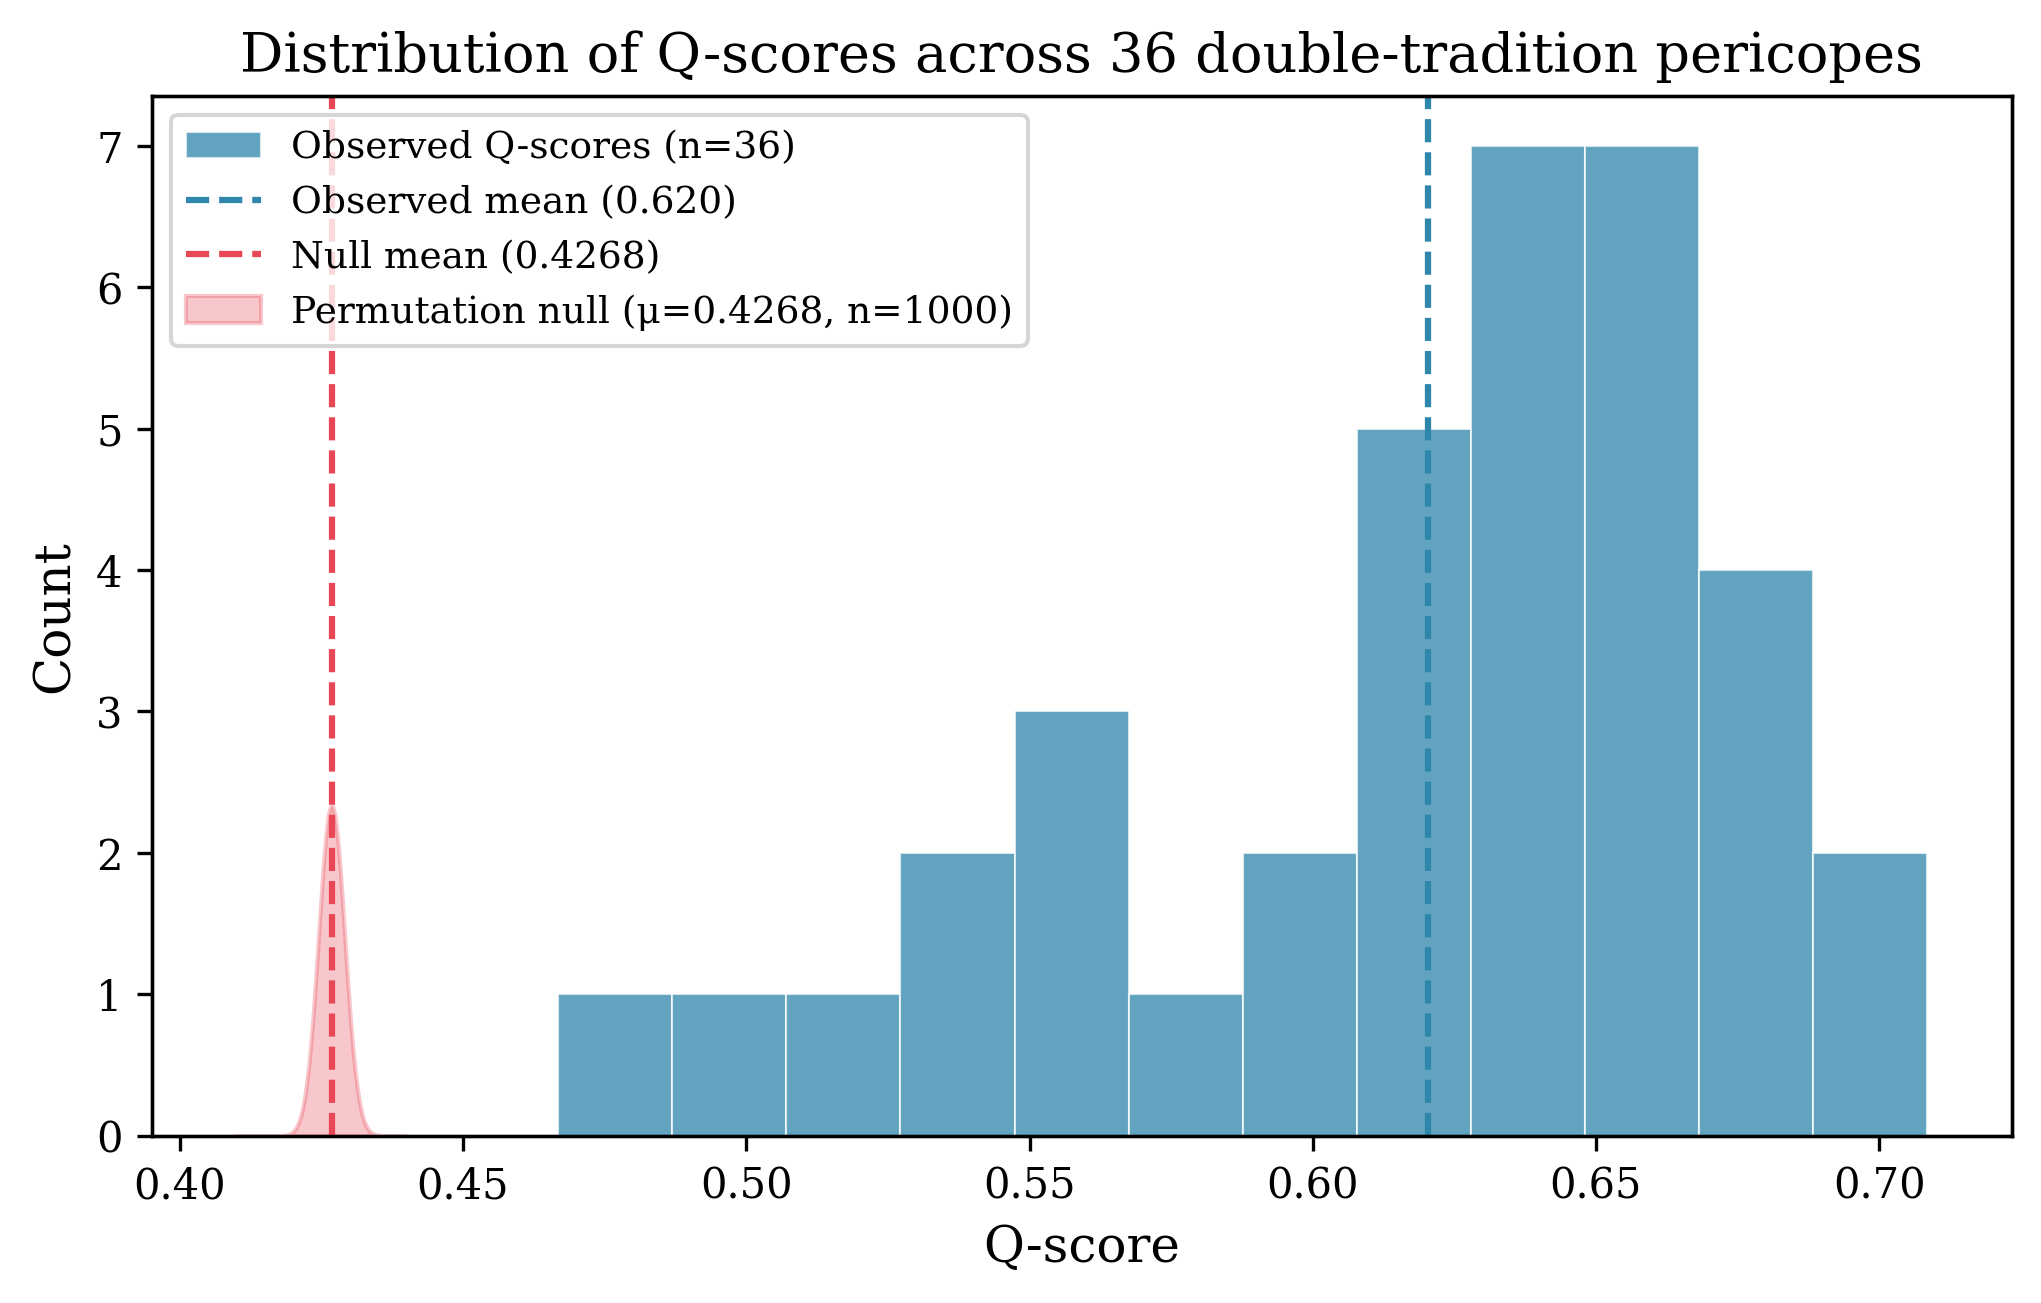
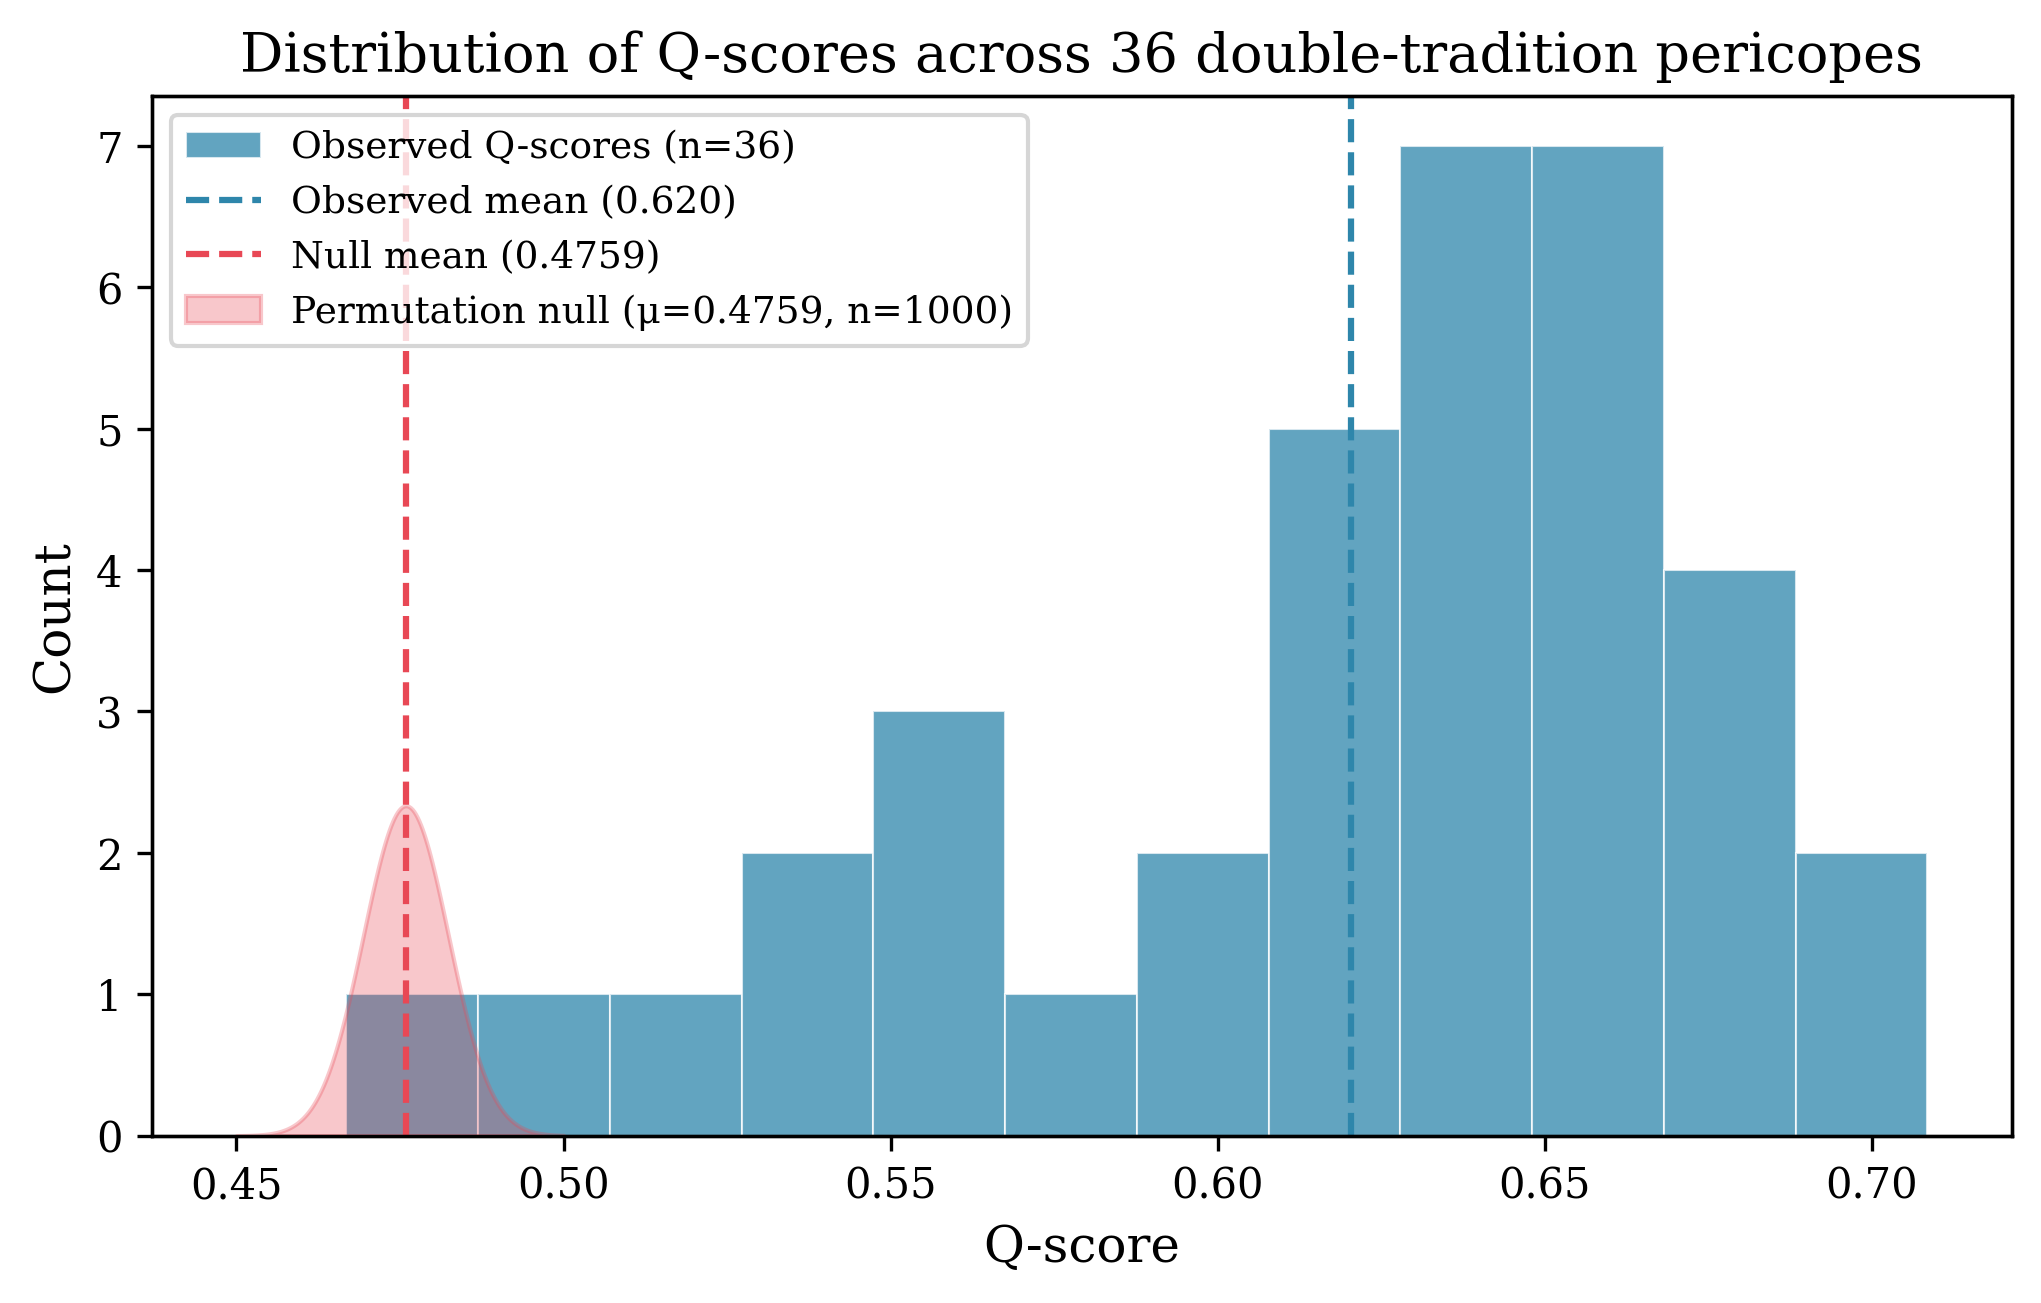
Update evaluation script, permutation nulls, and rename figure files

diff --git a/generate_evaluation_figures.py b/generate_evaluation_figures.py
@@ -214,10 +214,10 @@ q_scores = [d['q_score'] for d in data]
 # Histogram
 ax.hist(q_scores, bins=12, color='#2E86AB', alpha=0.75, edgecolor='white', linewidth=0.5, label='Observed Q-scores (n=36)')
 
-# Null distribution (mean=0.411, sd=0.003 from evaluation_summary.md)
-null_mean = 0.4268
-null_sd = 0.0023
-x_null = np.linspace(0.41, 0.44, 200)
+# Null distribution from corrected evaluation_summary.md
+null_mean = 0.4759
+null_sd = 0.0065
+x_null = np.linspace(0.45, 0.50, 200)
 null_pdf = (1 / (null_sd * np.sqrt(2 * np.pi))) * np.exp(-0.5 * ((x_null - null_mean) / null_sd)**2)
 # Scale to histogram height
 null_pdf_scaled = null_pdf * (len(q_scores) * (q_scores[0] - q_scores[-1]) / 12) * 0.3
@@ -273,9 +273,9 @@ ax.plot(xline, np.polyval(z, xline), '--', color='#E84855', alpha=0.6, linewidth
 ax.set_xlabel('Mean pericope length (verses)')
 ax.set_ylabel('Q-score')
 ax.set_title(f'Q-score vs. pericope length (r = {r:.3f}, p = {p:.3f}; ρ = {sr:.3f})')
-plt.savefig(os.path.join(OUT_DIR, 'fig2_qscore_vs_length.png'))
+plt.savefig(os.path.join(OUT_DIR, 'fig4_qscore_vs_length.png'))
 plt.close()
-print(f"Saved fig2_qscore_vs_length.png | Pearson r={r:.3f}, p={p:.4f} | Spearman rho={sr:.3f}, p={sp:.4f}")
+print(f"Saved fig4_qscore_vs_length.png | Pearson r={r:.3f}, p={p:.4f} | Spearman rho={sr:.3f}, p={sp:.4f}")
 
 # ---------- FIGURE 3: Residual symmetry comparison ----------
 fig, ax = plt.subplots(figsize=(7, 5))
@@ -312,9 +312,9 @@ ax.set_ylabel('Residual cosine similarity')
 ax.set_title('Residual symmetry: top-5 double-tradition pericopes\nvs. triple-tradition baseline')
 ax.set_ylim(0, 1.1)
 ax.legend(loc='lower right', fontsize=9)
-plt.savefig(os.path.join(OUT_DIR, 'fig3_residual_symmetry.png'))
+plt.savefig(os.path.join(OUT_DIR, 'fig2_residual_symmetry.png'))
 plt.close()
-print("Saved fig3_residual_symmetry.png")
+print("Saved fig2_residual_symmetry.png")
 
 # ---------- FIGURE 4: Q-score by Kloppenborg stratum ----------
 fig, ax = plt.subplots(figsize=(7, 5))
@@ -366,9 +366,9 @@ if q1_scores and q2_scores:
     print(f"Mann-Whitney U: stat={mwu_stat:.1f}, p={mwu_p:.4f}")
     print(f"Kruskal-Wallis: stat={kw_stat:.3f}, p={kw_p:.4f}")
 
-plt.savefig(os.path.join(OUT_DIR, 'fig4_qscore_by_stratum.png'))
+plt.savefig(os.path.join(OUT_DIR, 'fig6_qscore_by_stratum.png'))
 plt.close()
-print("Saved fig4_qscore_by_stratum.png")
+print("Saved fig6_qscore_by_stratum.png")
 
 # ---------- FIGURE 5: Full ranked pericope plot ----------
 fig, ax = plt.subplots(figsize=(10, 7))
@@ -400,9 +400,9 @@ legend_elements = [
 ]
 ax.legend(handles=legend_elements, loc='lower right', fontsize=8)
 
-plt.savefig(os.path.join(OUT_DIR, 'fig5_full_ranking.png'))
+plt.savefig(os.path.join(OUT_DIR, 'fig3_full_ranking.png'))
 plt.close()
-print("Saved fig5_full_ranking.png")
+print("Saved fig3_full_ranking.png")
 
 # ---------- FIGURE 6: Q-score by form type ----------
 fig, ax = plt.subplots(figsize=(7, 5))
@@ -449,9 +449,9 @@ for f in form_order:
         vals = form_groups[f]
         print(f"Form '{f}': n={len(vals)}, mean={statistics.mean(vals):.4f}, sd={statistics.stdev(vals) if len(vals)>1 else 0:.4f}")
 
-plt.savefig(os.path.join(OUT_DIR, 'fig6_qscore_by_form.png'))
+plt.savefig(os.path.join(OUT_DIR, 'fig5_qscore_by_form.png'))
 plt.close()
-print("Saved fig6_qscore_by_form.png")
+print("Saved fig5_qscore_by_form.png")
 
 # ---------- SUMMARY STATISTICS ----------
 print("\n=== SUMMARY FOR ARTICLE ===")

diff --git a/stcm/evaluation.py b/stcm/evaluation.py
@@ -40,7 +40,7 @@ from stcm.config import EvaluationConfig, default_config
 from stcm.data_loader import Pericope, SynopticCorpus
 from stcm.embeddings import EmbeddingPipeline
 from stcm.scoring import QScorer, ScoringReport
-from stcm.utils import cosine_similarity, normalise_greek, strip_accents
+from stcm.utils import cosine_similarity, normalise_greek, strip_accents, residual_vector
 
 log = logging.getLogger(__name__)
 
@@ -276,7 +276,10 @@ class EvaluationEngine:
                 e_l = self._pipe.embed_text(l_txt)
                 cos = cosine_similarity(e_m, e_l)
                 dev_a = cos - self._cal.sig_a.mean
-                q = 0.5 * cos + 0.3 * max(0.0, dev_a)
+                r_m = residual_vector(e_m, self._cal.centroid_mark)
+                r_l = residual_vector(e_l, self._cal.centroid_mark)
+                resid_sim = cosine_similarity(r_m, r_l)
+                q = 0.5 * cos + 0.3 * max(0.0, dev_a) + 0.2 * max(0.0, resid_sim)
                 perm_qs.append(q)
             null_stats.append(stat_fn(np.array(perm_qs)))
             if (i + 1) % 100 == 0:
@@ -349,7 +352,10 @@ class EvaluationEngine:
                 e_l = self._pipe.embed_text(l_txt)
                 cos = cosine_similarity(e_m, e_l)
                 dev_a = cos - self._cal.sig_a.mean
-                q = 0.5 * cos + 0.3 * max(0.0, dev_a)
+                r_m = residual_vector(e_m, self._cal.centroid_mark)
+                r_l = residual_vector(e_l, self._cal.centroid_mark)
+                resid_sim = cosine_similarity(r_m, r_l)
+                q = 0.5 * cos + 0.3 * max(0.0, dev_a) + 0.2 * max(0.0, resid_sim)
                 perm_qs.append(q)
             null_stats.append(float(np.mean(perm_qs)))
             if (i + 1) % 100 == 0:

diff --git a/logs/STEP_LOG.md b/logs/STEP_LOG.md
@@ -35,3 +35,79 @@ Files created/modified:
 **System validation report generated**
 Files created/modified:
 - `outputs/reports/system_validation.txt`
+
+## ✅ STEP 1 COMPLETE — 2026-06-10T21:32:33Z
+**SBLGNT corpus loaded**
+Files created/modified:
+- `data/raw/matthew.txt`
+- `data/raw/mark.txt`
+- `data/raw/luke.txt`
+
+## ✅ STEP 2 COMPLETE — 2026-06-10T21:32:39Z
+**Embedding pipeline initialised**
+Files created/modified:
+- `data/processed/ (cache)`
+
+## ✅ STEP 3 COMPLETE — 2026-06-10T21:32:40Z
+**Triple-tradition calibration complete**
+Files created/modified:
+- `outputs/models/calibration_signatures.pkl`
+
+## ✅ STEP 4 COMPLETE — 2026-06-10T21:32:40Z
+**Double-tradition scoring complete**
+Files created/modified:
+- `outputs/reports/q_score_distribution.csv`
+- `outputs/figures/q_score_histogram.png`
+
+## ✅ STEP 5 COMPLETE — 2026-06-10T21:32:40Z
+**Latent Q embedding reconstruction complete**
+Files created/modified:
+- `outputs/models/reconstructed_q_embeddings.pkl`
+
+## ✅ STEP 6 COMPLETE — 2026-06-10T21:32:45Z
+**Robustness evaluation complete**
+Files created/modified:
+- `outputs/reports/evaluation_summary.md`
+
+## ✅ STEP 7 COMPLETE — 2026-06-10T21:32:45Z
+**System validation report generated**
+Files created/modified:
+- `outputs/reports/system_validation.txt`
+
+## ✅ STEP 1 COMPLETE — 2026-06-10T21:35:43Z
+**SBLGNT corpus loaded**
+Files created/modified:
+- `data/raw/matthew.txt`
+- `data/raw/mark.txt`
+- `data/raw/luke.txt`
+
+## ✅ STEP 2 COMPLETE — 2026-06-10T21:35:49Z
+**Embedding pipeline initialised**
+Files created/modified:
+- `data/processed/ (cache)`
+
+## ✅ STEP 3 COMPLETE — 2026-06-10T21:35:49Z
+**Triple-tradition calibration complete**
+Files created/modified:
+- `outputs/models/calibration_signatures.pkl`
+
+## ✅ STEP 4 COMPLETE — 2026-06-10T21:35:49Z
+**Double-tradition scoring complete**
+Files created/modified:
+- `outputs/reports/q_score_distribution.csv`
+- `outputs/figures/q_score_histogram.png`
+
+## ✅ STEP 5 COMPLETE — 2026-06-10T21:35:49Z
+**Latent Q embedding reconstruction complete**
+Files created/modified:
+- `outputs/models/reconstructed_q_embeddings.pkl`
+
+## ✅ STEP 6 COMPLETE — 2026-06-10T21:35:56Z
+**Robustness evaluation complete**
+Files created/modified:
+- `outputs/reports/evaluation_summary.md`
+
+## ✅ STEP 7 COMPLETE — 2026-06-10T21:35:56Z
+**System validation report generated**
+Files created/modified:
+- `outputs/reports/system_validation.txt`

diff --git a/outputs/reports/evaluation_summary.md b/outputs/reports/evaluation_summary.md
@@ -3,17 +3,17 @@
 ## 1. Permutation Test: Mean Q-Score (Random Null)
 
 - Observed mean Q-score : 0.6204
-- Null mean             : 0.4268
-- Null std              : 0.0023
+- Null mean             : 0.4759
+- Null std              : 0.0065
 - p-value               : 0.0000
-- z-score               : 83.646
+- z-score               : 22.105
 - Interpretation        : SIGNIFICANT (p < 0.05)
 
 ## 2. Permutation Test: Top-10 Mean Q-Score
 
 - Observed top-10 mean  : 0.6777
 - p-value               : 0.0000
-- z-score               : 44.983
+- z-score               : 9.733
 - Interpretation        : SIGNIFICANT (p < 0.05)
 
 ## 3. Thematic-Null Permutation Test (Circularity Check)
@@ -24,10 +24,10 @@ random one.  This is a more demanding null that controls for topical
 similarity in Koine Greek.
 
 - Observed mean Q-score : 0.6204
-- Thematic null mean    : 0.4295
-- Thematic null std     : 0.0024
+- Thematic null mean    : 0.4840
+- Thematic null std     : 0.0059
 - p-value               : 0.0000
-- z-score               : 79.062
+- z-score               : 23.247
 - Interpretation        : SIGNIFICANT — signal exceeds thematic baseline
 
 ## 4. Weight Sensitivity Analysis
